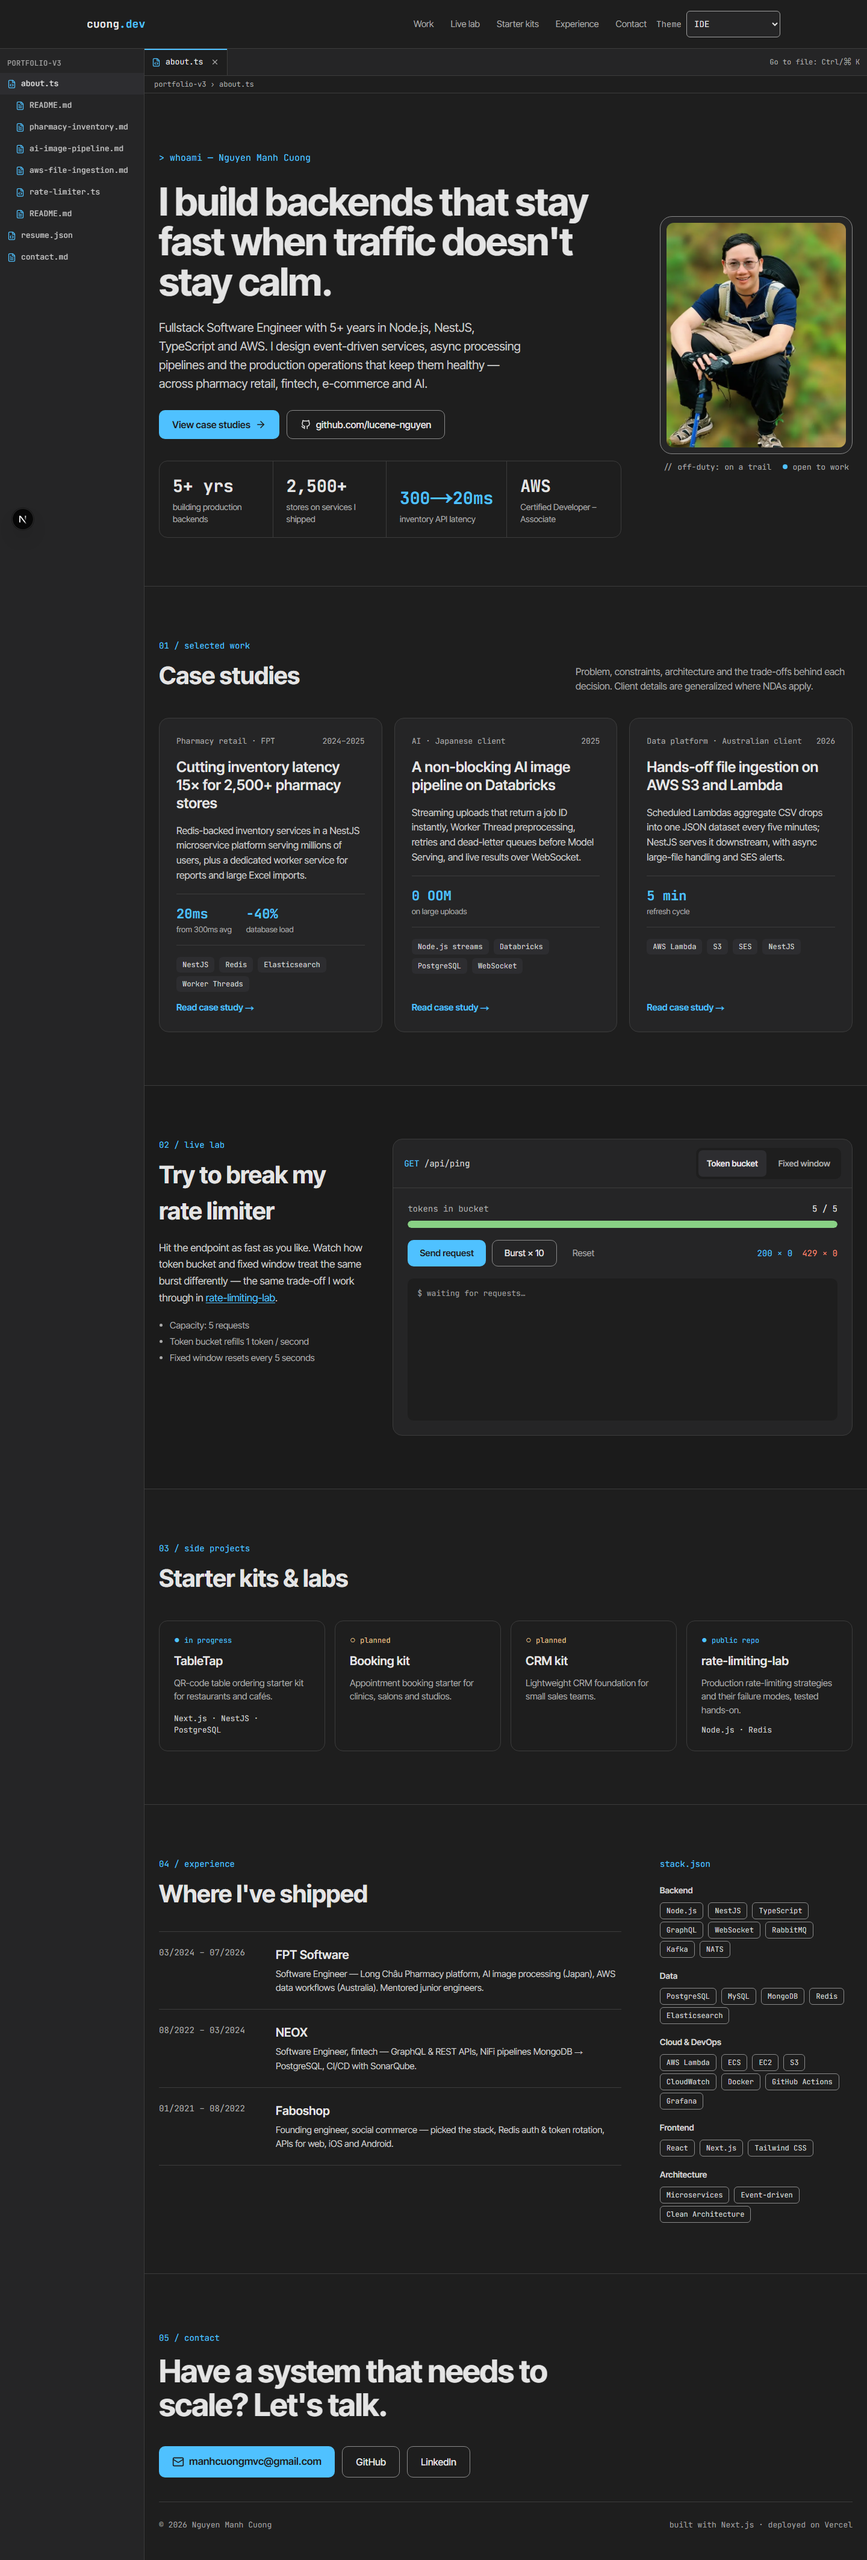
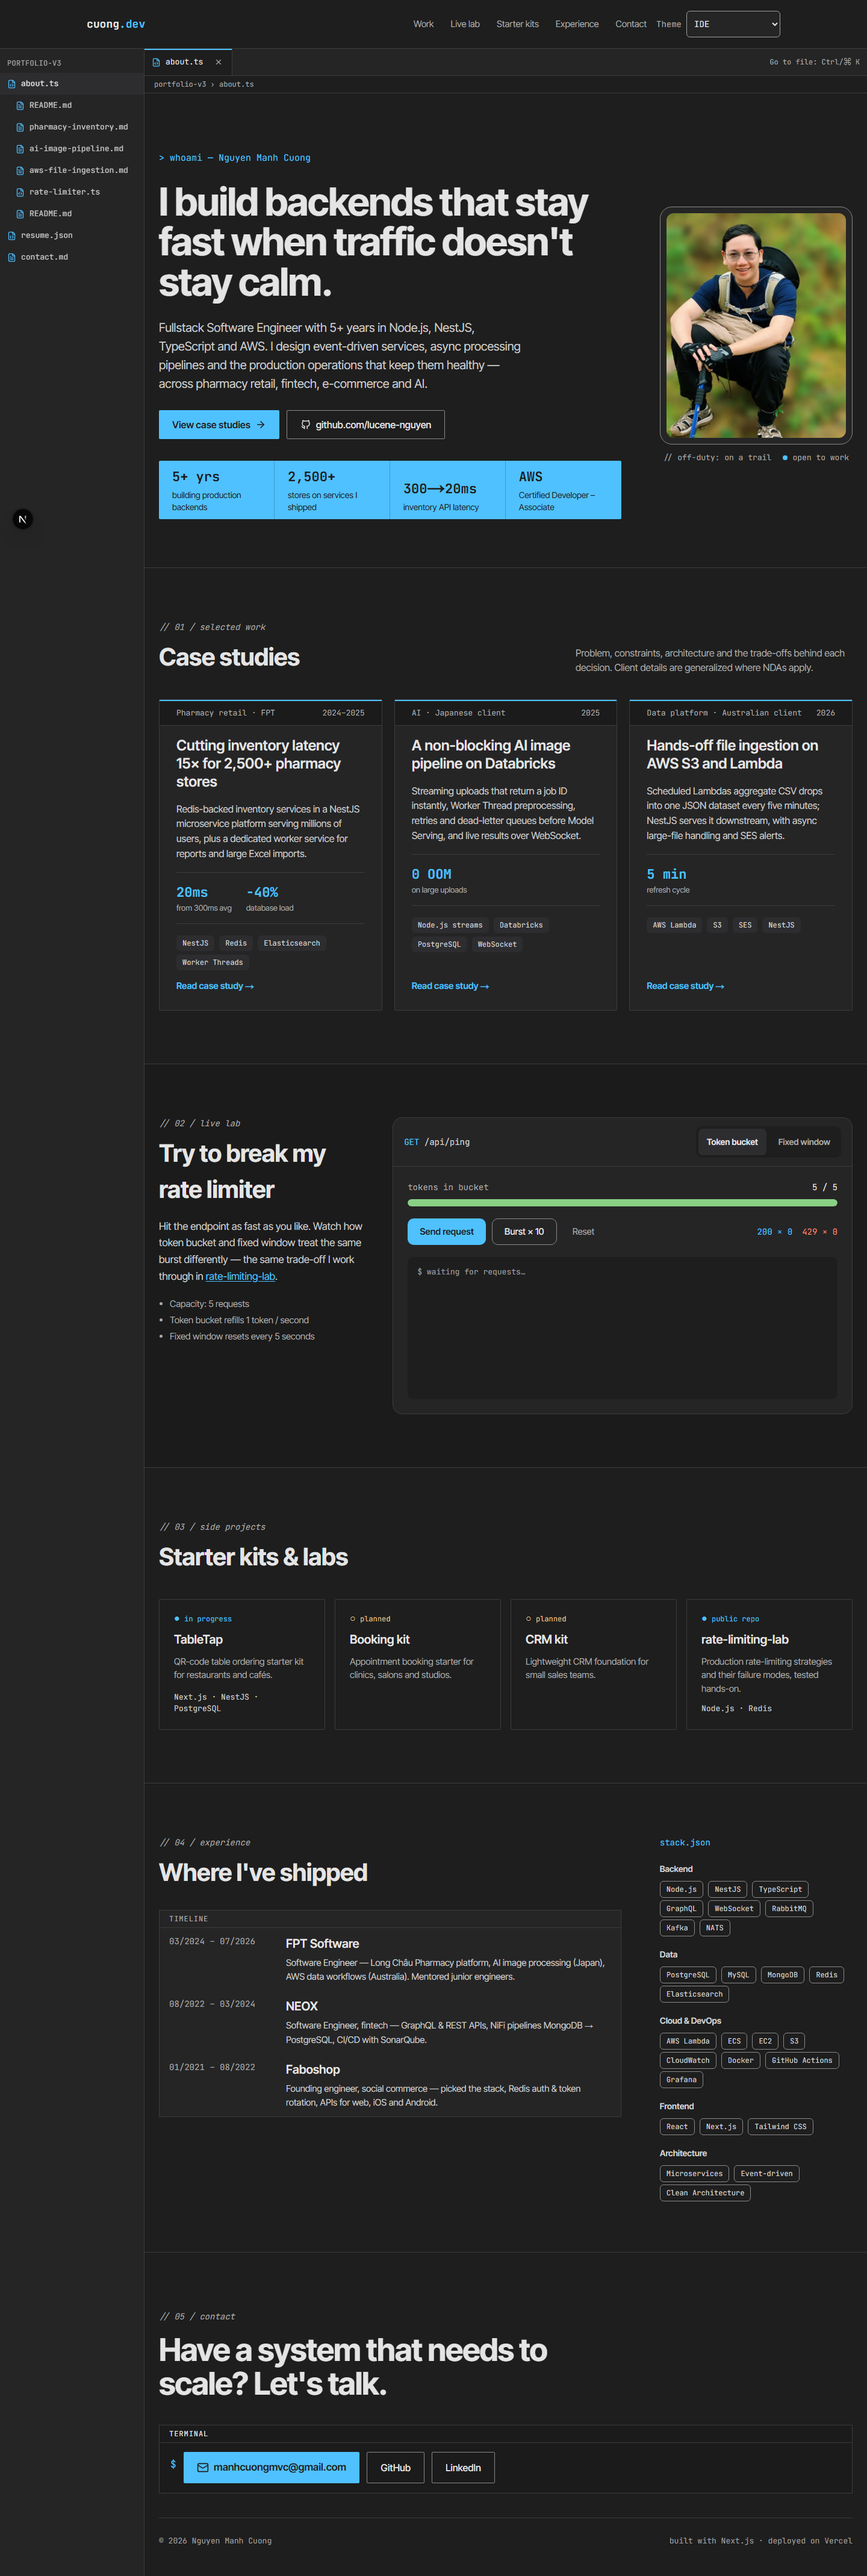
feat(ui): ide restyle - code-comment eyebrows, editor panes, status-bar stats, timeline and terminal panels; 44px tab close buttons; screenshots

diff --git a/themes/ide/ide.css b/themes/ide/ide.css
@@ -1,0 +1,92 @@
+/* Editor language for the shared sections (design-system/portfolio-v3/pages/ide.md › Shared sections). */
+[data-theme="ide"] [data-part="eyebrow"] {
+  font-style: italic;
+  color: var(--text-muted);
+}
+[data-theme="ide"] [data-part="eyebrow"]::before {
+  content: "// " / "";
+}
+
+/* Case studies: editor panes with a tab strip. */
+[data-theme="ide"] [data-part="case-card"] {
+  border-radius: 2px;
+  padding-top: 0;
+}
+[data-theme="ide"] [data-part="case-meta"] {
+  /* Edge to edge: negative margin = the card's p-7 (1.75rem) side padding. */
+  margin: 0 -1.75rem;
+  padding: 10px 1.75rem;
+  border-top: 2px solid var(--accent);
+  border-bottom: 1px solid var(--border);
+  background: var(--bg-alt);
+}
+
+/* Hero stats: status bar. */
+[data-theme="ide"] [data-part="stats"] {
+  border: 0;
+  border-radius: 2px;
+  background: var(--accent);
+}
+[data-theme="ide"] [data-part="stat"] {
+  padding-block: 10px !important; /* beats the cell's py-5 utility */
+  border-color: color-mix(in srgb, var(--accent-contrast) 25%, transparent) !important;
+}
+[data-theme="ide"] [data-part="stat"] :is(dt, dd) {
+  color: var(--accent-contrast) !important; /* beats text-muted / text-accent utilities */
+}
+[data-theme="ide"] [data-part="stat"] dd {
+  font-size: 22px;
+}
+
+/* Experience: TIMELINE panel. */
+[data-theme="ide"] [data-part="roles"] {
+  border: 1px solid var(--border);
+  background: var(--surface);
+}
+[data-theme="ide"] [data-part="roles"]::before {
+  content: "TIMELINE" / "";
+  display: block;
+  padding: 6px 16px;
+  border-bottom: 1px solid var(--border);
+  font: 12px var(--font-mono);
+  letter-spacing: 0.08em;
+  color: var(--text-muted);
+}
+[data-theme="ide"] [data-part="role"] {
+  padding: 12px 16px !important; /* beats py-6 */
+  border-width: 0 !important;
+}
+[data-theme="ide"] [data-part="role"]:hover {
+  background: var(--surface2);
+}
+
+/* Contact: TERMINAL panel. */
+[data-theme="ide"] [data-part="contact-actions"] {
+  position: relative;
+  padding: 44px 16px 16px 40px;
+  border: 1px solid var(--border);
+  background: var(--bg-alt);
+}
+[data-theme="ide"] [data-part="contact-actions"]::before {
+  content: "TERMINAL" / "";
+  position: absolute;
+  inset: 0 0 auto;
+  padding: 6px 16px;
+  line-height: 20px;
+  border-bottom: 1px solid var(--border);
+  font: 12px var(--font-mono);
+  letter-spacing: 0.08em;
+  color: var(--text);
+}
+[data-theme="ide"] [data-part="contact-actions"]::after {
+  content: "$" / "";
+  position: absolute;
+  top: 54px;
+  left: 18px;
+  font: 16px var(--font-mono);
+  color: var(--accent);
+}
+[data-theme="ide"] [data-part="button"],
+[data-theme="ide"] [data-part="kit"] > * {
+  border-radius: 2px;
+}

diff --git a/e2e/ide.spec.ts b/e2e/ide.spec.ts
@@ -97,3 +97,23 @@ test("desktop axe clean", async ({ page }) => {
   const { violations } = await new AxeBuilder({ page }).exclude("nextjs-portal").analyze();
   expect(violations.map((v) => v.id)).toEqual([]);
 });
+
+test("shared sections are restyled in editor language", async ({ page }) => {
+  await ready(page);
+  const pseudo = (sel: string) =>
+    page
+      .locator(sel)
+      .first()
+      .evaluate((el) => getComputedStyle(el, "::before").content);
+  expect(await pseudo('#work [data-part="eyebrow"]')).toContain("//");
+  await expect(page.locator('[data-part="case-meta"]').first()).toHaveCSS(
+    "border-top-width",
+    "2px",
+  );
+  await expect(page.locator('[data-part="stats"]')).toHaveCSS(
+    "background-color",
+    "rgb(79, 193, 255)",
+  );
+  expect(await pseudo('[data-part="roles"]')).toContain("TIMELINE");
+  expect(await pseudo('[data-part="contact-actions"]')).toContain("TERMINAL");
+});

diff --git a/themes/ide/layout.tsx b/themes/ide/layout.tsx
@@ -254,7 +254,7 @@ export default function IdeLayout({ children }: { children: React.ReactNode }) {
                         data-close={path}
                         onClick={() => close(path)}
                         aria-label={ideCopy.close(basename(path))}
-                        className="mr-1 flex size-8 items-center justify-center text-text-muted hover:bg-surface-2 hover:text-text"
+                        className="flex size-11 items-center justify-center text-text-muted hover:bg-surface-2 hover:text-text"
                       >
                         <X size={14} aria-hidden />
                       </button>

diff --git a/e2e/checklist.spec.ts b/e2e/checklist.spec.ts
@@ -2,7 +2,15 @@ import AxeBuilder from "@axe-core/playwright";
 import { expect, test, type Page } from "@playwright/test";
 
 // ui-ux-pro-max pre-delivery checklist, the parts that can be measured (UI round 1, restyled themes).
-const THEMES = ["blueprint", "pixel", "cyberpunk", "editorial", "night-terminal", "dashboard"];
+const THEMES = [
+  "blueprint",
+  "pixel",
+  "cyberpunk",
+  "editorial",
+  "night-terminal",
+  "dashboard",
+  "ide",
+];
 
 const overflow = (page: Page) =>
   page.evaluate(() => document.documentElement.scrollWidth - document.documentElement.clientWidth);

diff --git a/app/layout.tsx b/app/layout.tsx
@@ -15,6 +15,7 @@ import "@/themes/blueprint/blueprint.css";
 import "@/themes/cyberpunk/cyberpunk.css";
 import "@/themes/dashboard/dashboard.css";
 import "@/themes/editorial/editorial.css";
+import "@/themes/ide/ide.css";
 import "@/themes/neo-brutalism/neo.css";
 import "@/themes/night-terminal/night-terminal.css";
 import "@/themes/pixel/pixel.css";

diff --git a/design-system/portfolio-v3/pages/ide.md b/design-system/portfolio-v3/pages/ide.md
@@ -37,3 +37,16 @@
 - Explorer (≥ 768px sidebar; drawer below) lists sections as files: `about.ts`, `work/README.md`, `work/*.md`, `lab/rate-limiter.ts`, `kits/README.md`, `resume.json`, `contact.md`. Every file is a real link to an existing page or anchor.
 - "Open editors" tab bar: tabs are links (deep-linkable) with separate close buttons; open tabs kept per session.
 - Path line `portfolio-v3 › work › x.md` under the tabs. Ctrl/⌘K: "Go to file" palette (combobox + listbox).
+
+### Shared sections (UI round 1)
+> ui-ux-pro-max: `"developer tool product" --domain landing` → **no verified match** (built-in defaults: hero first, work, about, contact); `"code editor tabs panels" --domain ux` → code splitting (verified: the IDE chrome is its own lazy chunk).
+
+**Section order:** Hero → Case studies → Live lab → Starter kits → Experience + stack → Contact (inside the editor area).
+- Rejected: left accent-border "cards" (listed as an AI-design trope); line-number gutters on prose (content must stay readable prose).
+
+**How the shared sections look** (editor language; decorative labels have empty alt text)
+- Eyebrows → code comments: `// 01 / selected work`, italic.
+- Case study cards → **editor panes**: square-ish (2px radius), meta line as a tab strip (`bgAlt`, active-tab accent top rule), body unchanged.
+- Hero stats → **status bar**: one accent band, items separated by thin rules, text in `accentContrast`.
+- Experience → **TIMELINE panel**: panel header, compact rows, hover highlight.
+- Contact → **TERMINAL panel**: tab header "TERMINAL", dark body, `$` prompt before the actions.

diff --git a/docs/ui-round-1.md b/docs/ui-round-1.md
@@ -15,7 +15,7 @@ Per theme (item 2): ui-ux-pro-max `--domain landing` + `--domain ux` → "## Lay
 | 2 editorial | done | `fix/ui-editorial` |
 | 2 night-terminal | done | `fix/ui-night-terminal` |
 | 2 dashboard | done | `fix/ui-dashboard` |
-| 2 ide | todo | `fix/ui-ide` |
+| 2 ide | done | `fix/ui-ide` |
 | 2 docs | todo | `fix/ui-docs` |
 | 2 bento | todo | `fix/ui-bento` |
 | 2 neo-brutalism | todo | `fix/ui-neo-brutalism` |
